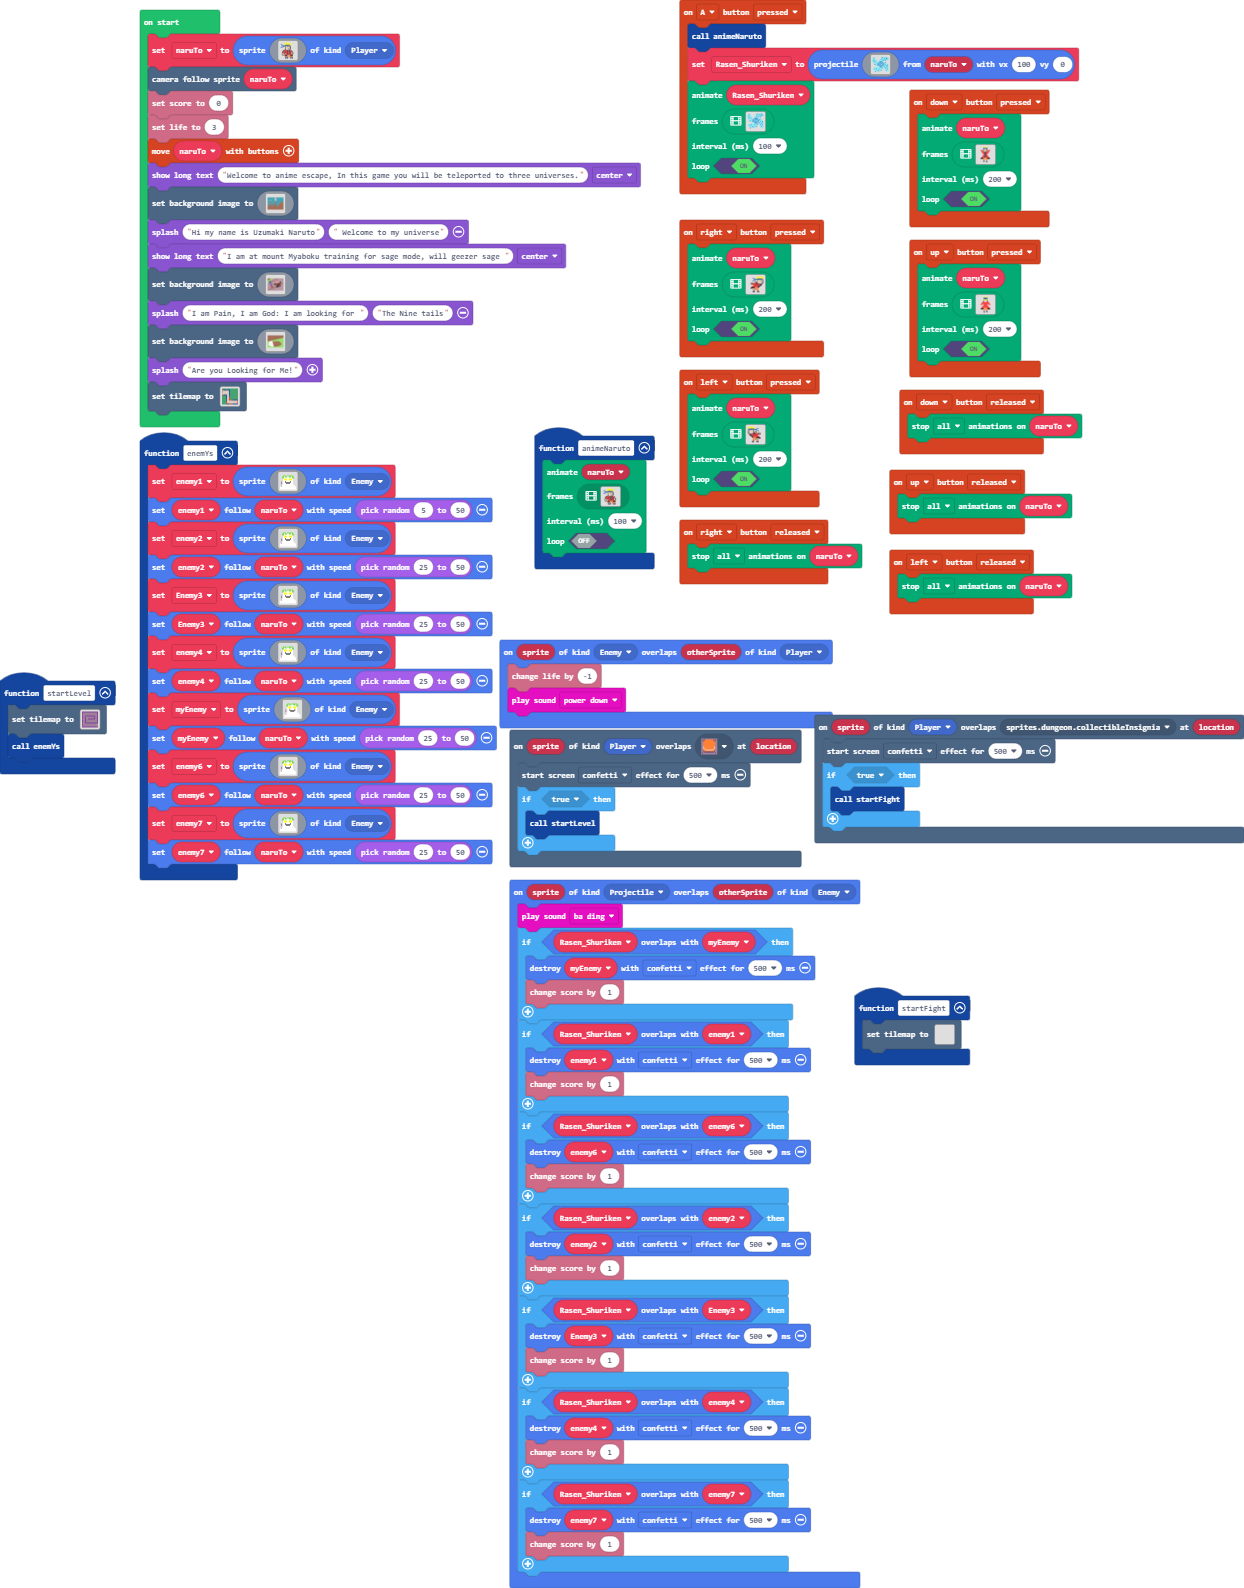
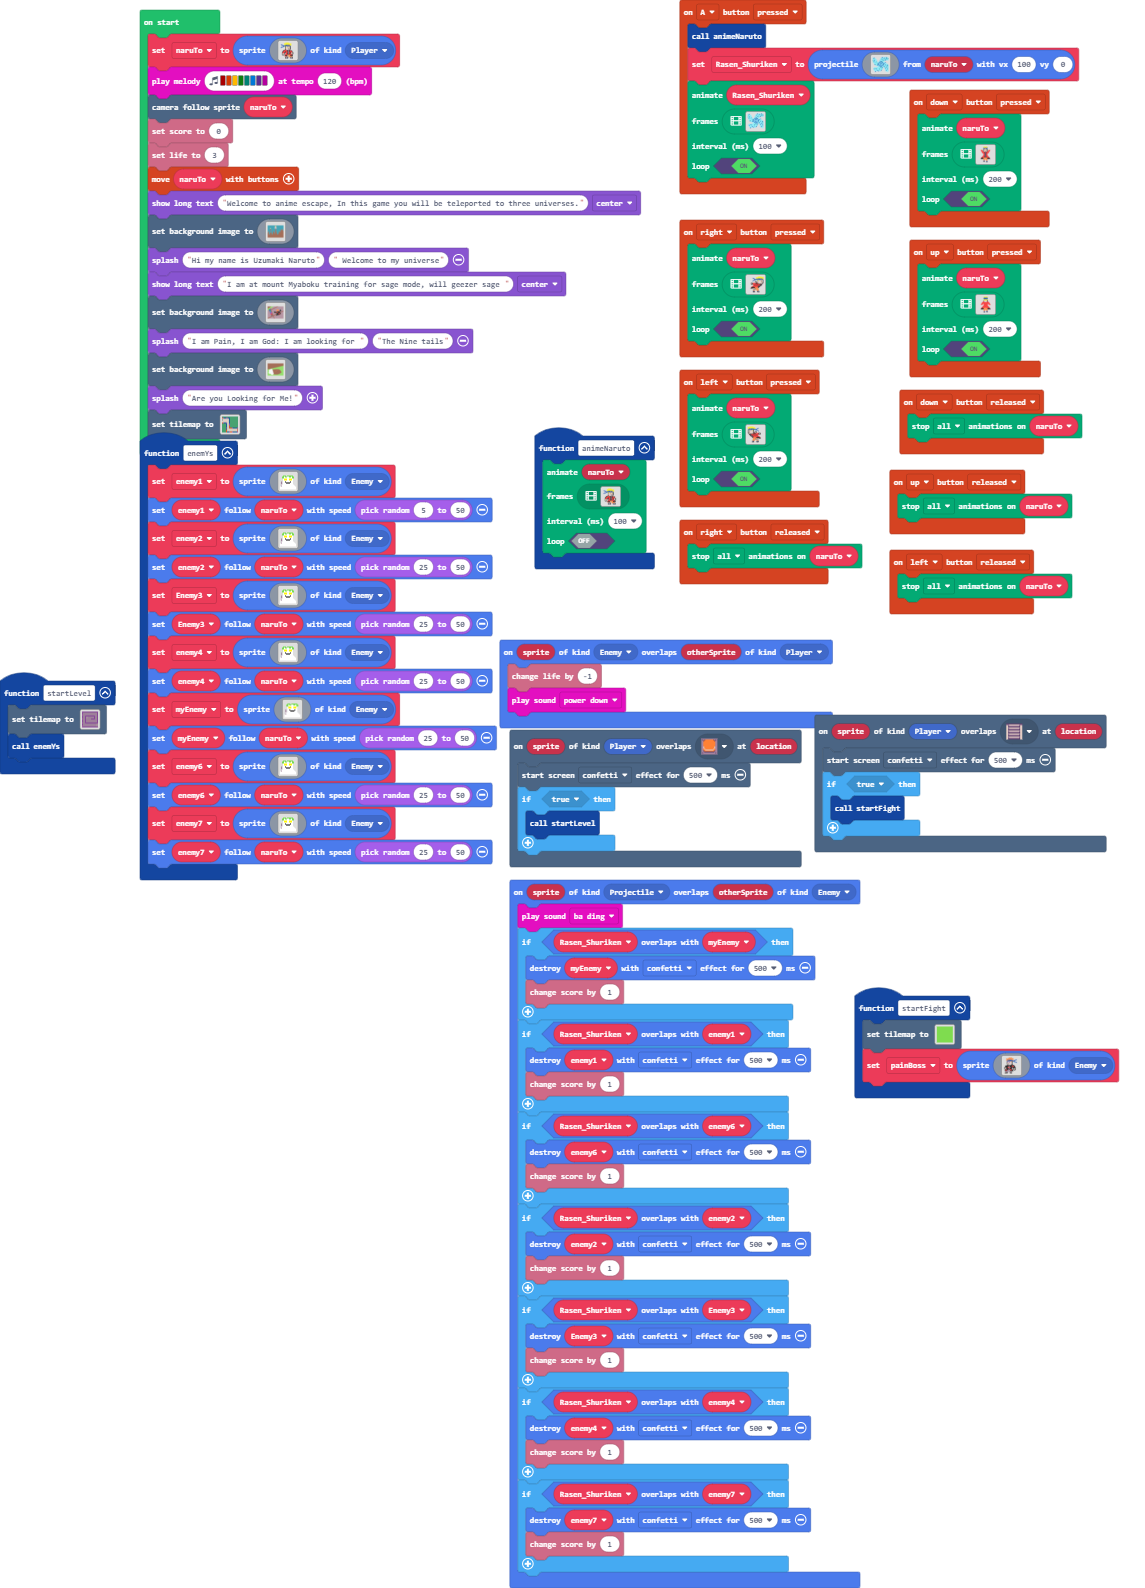
Update main.blocks, main.ts, tilemap.g.jres, tilemap.g.ts

diff --git a/tilemap.g.ts b/tilemap.g.ts
@@ -280,7 +280,7 @@ namespace myTiles {
 . . . . . . . . . . . . . . . . 
 `, [myTiles.transparency16], TileScale.Sixteen);
             case "level16":
-            case "level16":return tiles.createTilemap(hex`1000100000000000000000000000000000000000000000000000000000000000000000000000000000000000000000000000000000000000000000000000000000000000000000000000000000000000000000000000000000000000000000000000000000000000000000000000000000000000000000000000000000000000000000000000000000000000000000000000000000000000000000000000000000000000000000000000000000000000000000000000000000000000000000000000000000000000000000000000000000000000000000000000000000000000000000000000000000000000000000000000000000000000000000000000000000000000`, img`
+            case "level16":return tiles.createTilemap(hex`1000100001010101010101010101010101010101010101010101010101010101010101010101010101010101010101010101010101010101010101010101010101010101010101010101010101010101010101010101010101010101010101010101010101010101010101010101010101010101010101010101010101010101010101010101010101010101010101010101010101010101010101010101010101010101010101010101010101010101010101010101010101010101010101010101010101010101010101010101010101010101010101010101010101010101010101010101010101010101010101010101010101010101010101010101010101010101`, img`
 . . . . . . . . . . . . . . . . 
 . . . . . . . . . . . . . . . . 
 . . . . . . . . . . . . . . . . 
@@ -297,9 +297,9 @@ namespace myTiles {
 . . . . . . . . . . . . . . . . 
 . . . . . . . . . . . . . . . . 
 . . . . . . . . . . . . . . . . 
-`, [myTiles.transparency16], TileScale.Sixteen);
+`, [myTiles.transparency16,sprites.castle.tileGrass1], TileScale.Sixteen);
             case "level15":
[2 lines of base64/hex data omitted]
 2 2 2 2 2 2 2 2 2 2 2 2 2 2 2 2 
 2 . . . . . . . . . . . . . . 2 
 2 . . . . . . . . . . . . . . 2 
@@ -307,7 +307,7 @@ namespace myTiles {
 2 . . 2 2 2 2 2 2 2 2 2 2 . . 2 
 2 . . 2 . . . . . . . . 2 . . 2 
 2 . . 2 . . . . . . . . 2 . . 2 
-2 . . 2 . . 2 2 2 2 2 2 2 . . 2 
+2 . . 2 . . . . . 2 2 2 2 . . 2 
 2 . . 2 . . . . . . . . . . . 2 
 2 . . 2 . . . . . . . . . . . 2 
 2 . . 2 . . . . . . . . . . . 2 

diff --git a/main.ts b/main.ts
@@ -170,6 +170,7 @@ controller.left.onEvent(ControllerButtonEvent.Released, function () {
 })
 function startFight () {
     tiles.setTilemap(tilemap`level16`)
+    painBoss = sprites.create(assets.image`Pain`, SpriteKind.Enemy)
 }
 controller.right.onEvent(ControllerButtonEvent.Pressed, function () {
     animation.runImageAnimation(
@@ -243,12 +244,13 @@ sprites.onOverlap(SpriteKind.Projectile, SpriteKind.Enemy, function (sprite, oth
         info.changeScoreBy(1)
     }
 })
-scene.onOverlapTile(SpriteKind.Player, sprites.dungeon.collectibleInsignia, function (sprite, location) {
+scene.onOverlapTile(SpriteKind.Player, sprites.dungeon.stairSouth, function (sprite, location) {
     effects.confetti.startScreenEffect(500)
     if (true) {
         startFight()
     }
 })
+let painBoss: Sprite = null
 let Rasen_Shuriken: Sprite = null
 let enemy7: Sprite = null
 let enemy6: Sprite = null
@@ -259,6 +261,7 @@ let enemy2: Sprite = null
 let enemy1: Sprite = null
 let naruTo: Sprite = null
 naruTo = sprites.create(assets.image`Naruto`, SpriteKind.Player)
+music.playMelody("C5 B A G F E D C ", 120)
 scene.cameraFollowSprite(naruTo)
 info.setScore(0)
 info.setLife(3)
